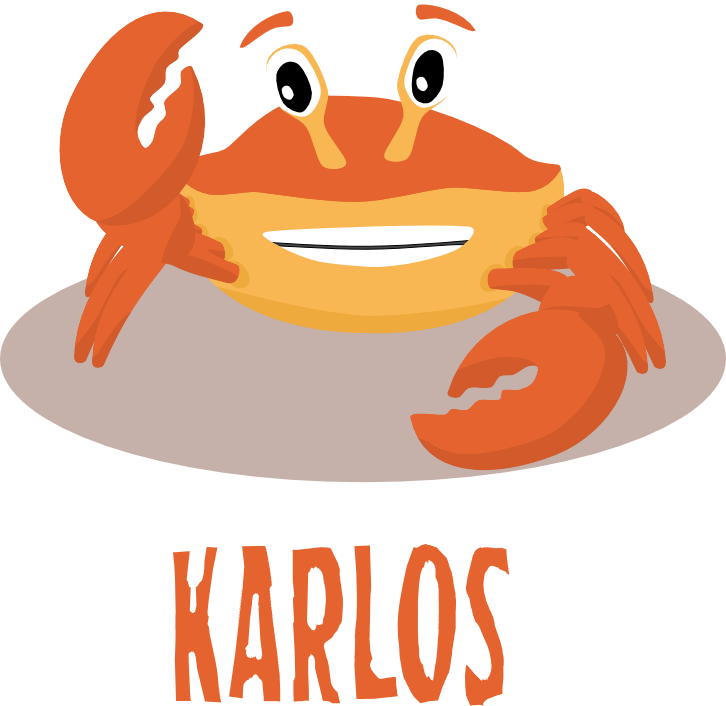
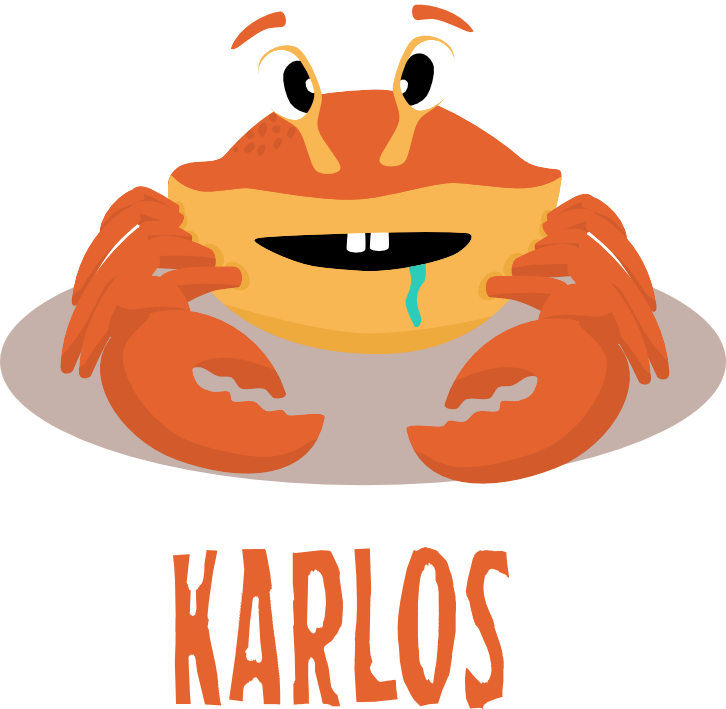
écran de fin

diff --git a/Crab/game.js b/Crab/game.js
@@ -8,7 +8,7 @@ let zoneSize, zones, zones1, zones2 ;
 let seagullTime, seagullSound, seagull;
 let clothings ; 
 let keys = {};
-let tabCrabImage, tabCrabCoupleImages ; 
+let tabCrabImage, tabCrabCoupleImages, tabCrabNames; 
 let rockCoords = [];
 let rockList, rockList1, rockList2;
 let crabList, crabListNoBot, crabListBot;
@@ -21,15 +21,15 @@ let totalSeconds = 1;
 let gatheringTime = 750;
 let play_button, how_button;
 let animationSize = 1;
-let buttonsSet, homeButton, choiceButton, goalButton;
+let buttonsSet, homeButton, choiceButton, goalButton, pauseButton;
 let mouseX = 0, mouseY = 0, clickX = -1, clickY = -1;
-let pret1=false, pret2=false, botChoice=false; 
-let crab1Choice = 1, crab2Choice = 0; 
+let pret1, pret2, botChoice; 
+let crab1Choice, crab2Choice; 
 
 let maxScore;
 let winners = [];
 
-let iter = 0;
+let iter;
 
 const background1 = new Image();
 const background2 = new Image();
@@ -144,6 +144,7 @@ tabCrabCoupleImages = [
     [crabImage21, crabImage22],
     [crabImage31, crabImage32]
 ]
+tabCrabNames = ['Klarence', 'Kapucine', 'Karlos'];
 
 
 
@@ -155,10 +156,12 @@ function init() {
     context = canvas.getContext('2d');
     context.canvas.width = window.innerWidth;
     context.canvas.height = window.innerHeight;
-    context.font = '60px crab';
     width = canvas.width;
     height = canvas.height;
+    
+    context.font = width/15+'px crab';
 
+    iter = 0;
     
     background1.src = 'img/background1.png';
     background2.src = 'img/background2.png';
@@ -177,8 +180,8 @@ function init() {
     crabImage12.src = 'img/crab12.png';
     crabImage21.src = 'img/crab21.png';
     crabImage22.src = 'img/crab22.png';
-    crabImage31.src = 'img/crab21.png';
-    crabImage32.src = 'img/crab22.png';
+    crabImage31.src = 'img/crab31.png';
+    crabImage32.src = 'img/crab32.png';
     seagullImage1.src = 'img/seagull1.png';
     seagullImage2.src = 'img/seagull2.png';
 
@@ -250,8 +253,15 @@ function init() {
     win.src = 'img/win.png';
     bothWin.src = 'img/draw.png';
 
+    crab1Choice = 1;
+    crab2Choice = 0; 
+
     crab1 = tabCrabImage[crab1Choice] ; 
     crab2 = tabCrabImage[crab2Choice] ; 
+
+    pret1=false; 
+    pret2=false;
+    botChoice=false;
 
 
     for(let i in splashList){
@@ -317,7 +327,7 @@ function init() {
 
     rockList2 = [
         new Rock(0.73*width, 0.32*height, 0.1*width, 0.14*height, rockImage22, hitbox),
-        new Rock(0.2*width, 0.70*height, 0.15*width, 0.23*height, rockImage21, hitbox)
+        new Rock(0.2*width, 0.75*height, 0.15*width, 0.23*height, rockImage21, hitbox)
     ];
 
 
@@ -370,6 +380,9 @@ function init() {
 
     seagull = new Seagull(width / 7, height / 7, seagullImage1, seagullImage2);
 
+
+    
+
     // Button 
     homeButton = [
         new Button(0.6*width, 0.45*height, 0.25*width, 0.15*height, playB, 1), 
@@ -388,6 +401,11 @@ function init() {
         new Button(0.64*width, 0.8*height, 0.15*width, 0.1*height, bot, -3), 
         new Button(0.29*width, 0.8*height, 0.09*width, 0.1*height, ok1, -4),
         new Button(0.53*width, 0.8*height, 0.09*width, 0.1*height, ok1, -5)
+    ]
+
+    pauseButton = [
+        new Button(0.1*width, 0.6* height, 0.05*width, 0.1*height,playB,0),
+        new Button(0.1*width, 0.3* height, 0.05*width, 0.1*height,playB,1)
     ]
 
 
@@ -410,6 +428,10 @@ function init() {
                 crabList[1].cooldown=cooldown;
                 
         }   }
+
+        if(state == 1 && evt.key == "escape"){
+            state = 0;
+        } 
     })
 
     
@@ -450,10 +472,6 @@ function gameLoop(timeStamp) {
             crabMovement();
             seagullActivity();
             winningCondition();
-            crabList[0].hat=0;
-            crabList[0].glasses=0;
-            crabList[0].shoes=0;
-            crabList[0].hand=0;
             break;
 
         case 2: // end of the game 
@@ -480,12 +498,12 @@ function draw() {
             
     
             drawBackground();
-            if(alert)
-                drawAlert();
             drawZone();
             drawCrabs();
             drawRocks();
             drawSeagull();
+            if(alert)
+                drawAlert();
             drawTimer();
             break;
 
@@ -596,7 +614,8 @@ function key() {
                 if (key == "l") {
                     crabList[1].speedX += 0.1;
                 }
-            }   
+            }
+              
         }
     }
 }
@@ -784,6 +803,9 @@ function winningCondition() {
         }
         if (crab.hat != -1 && crab.shoes != -1 && crab.glasses != -1 && crab.hand != -1) {
             crab.won = 1;
+            
+            context.font = width/7.5+'px crab';
+            context.fillStyle = "#AA323D"
             state = 2;
             winners.push(crab);
         }
@@ -791,6 +813,8 @@ function winningCondition() {
     if (nbDead >= crabList.length - 1 && seagull.preys.length == 0) {
         crabList.forEach((crab) => {
             if (crab.won != -1) {
+                context.font = width/7.5+'px crab';
+                context.fillStyle = "#AA323D"
                 crab.won = 1;
                 winners.push(crab);
             }
@@ -814,9 +838,9 @@ function winningCondition() {
 
 function drawTimer() {
     if (totalSeconds % 60 > 50)
-        context.fillText("0" + (60 - totalSeconds % 60), 20, 55);
+        context.fillText("0" + (60 - totalSeconds % 60), 0.03*width, 0.14*height);
     else
-        context.fillText((60 - totalSeconds % 60), 20, 55);
+        context.fillText((60 - totalSeconds % 60), 0.03*width, 0.14*height);
 }
 
 function drawRocks() {
@@ -932,11 +956,12 @@ function drawVictoryScreen() {
     } else if (winners.length == 1){
         context.drawImage(win,0,0,width,height);
         drawWinnerCrab(winners[0]);
-        context.fillText("Karlos",0.5*width, 0.4*height);
+        context.fillText(winners[0].name,0.2*width, 0.58*height);
     }
     else {
         context.drawImage(bothWin,0,0,width,height);
     }
+}
 
 
 function drawBackground() {
@@ -1054,11 +1079,13 @@ function goGame(){
             crabList = crabListBot;
         else    
             crabList = crabListNoBot;
-            
+
         crabList[0].image=tabCrabCoupleImages[crab1Choice][0];
         crabList[0].image2=tabCrabCoupleImages[crab1Choice][1];
+        crabList[0].name = tabCrabNames[crab1Choice];
         crabList[1].image=tabCrabCoupleImages[crab2Choice][0];
         crabList[1].image2=tabCrabCoupleImages[crab2Choice][1];
+        crabList[1].name = tabCrabNames[crab2Choice];
     }
 }
 

diff --git a/Crab/CrabBot.js b/Crab/CrabBot.js
@@ -20,6 +20,7 @@ class CrabBot{
         this.attack = false;
         this.attackFrame = -1;
         this.alert = false;
+        this.name;
     }
 
     move(){

diff --git a/Crab/Crab.js b/Crab/Crab.js
@@ -20,6 +20,7 @@ class Crab{
         this.attack = false;
         this.attackFrame = -1;
         this.cooldown = 0;
+        this.name;
     }
 
     move(){
